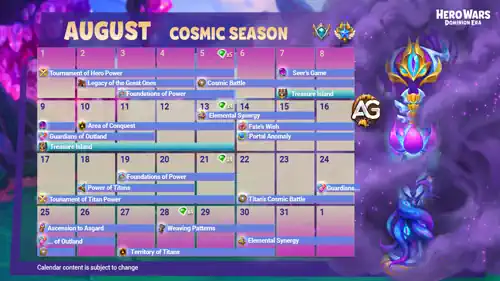
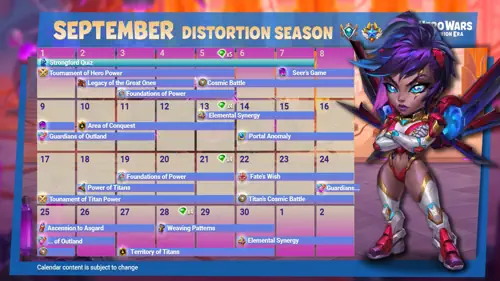
upate

diff --git a/hero-wars-dominion-era/menu/calendar-hwde-en.html b/hero-wars-dominion-era/menu/calendar-hwde-en.html
@@ -31,7 +31,7 @@
 <meta property="og:title" content="Hero Wars: Dominion Era Calendar">
 <meta property="og:description" content="Stay updated with the full event calendar for Hero Wars: Dominion Era. Find event dates, rewards, and strategy guides to make the most of every mission!">
 <meta property="og:url" content="https://alexandregames.com/hero-wars-dominion-era/menu/calendar-hwde-en.html">
-<meta property="og:image" content="https://alexandregames.com/hero-wars-dominion-era/images/events/calendar/calendar-hwde-1200px.webp?v=2026-07">
+<meta property="og:image" content="https://alexandregames.com/hero-wars-dominion-era/images/events/calendar/calendar-hwde-1200px.webp?v=2026-08">
 <meta property="og:image:width" content="1200">
 <meta property="og:image:height" content="675">
 <meta property="og:type" content="article">

diff --git a/hero-wars-dominion-era/menu/calendar-hwde-ja.html b/hero-wars-dominion-era/menu/calendar-hwde-ja.html
@@ -29,7 +29,7 @@
 <meta property="og:title" content="ヒーローウォーズ ドミニオン エラ カレンダー">
 <meta property="og:description" content="Hero Wars: Dominion Eraの完全イベントカレンダーで最新情報をチェック。イベント日程、報酬、戦略ガイドを見つけよう！">
 <meta property="og:url" content="https://alexandregames.com/hero-wars-dominion-era/menu/calendar-hwde-ja.html">
-<meta property="og:image" content="https://alexandregames.com/hero-wars-dominion-era/images/events/calendar/calendar-hwde-1200px.webp?v=2026-07">
+<meta property="og:image" content="https://alexandregames.com/hero-wars-dominion-era/images/events/calendar/calendar-hwde-1200px.webp?v=2026-08">
 <meta property="og:type" content="article">
 <meta property="og:site_name" content="Alexandre Games">
 

diff --git a/hero-wars-dominion-era/menu/calendar-hwde-pt.html b/hero-wars-dominion-era/menu/calendar-hwde-pt.html
@@ -31,7 +31,7 @@
 <meta property="og:title" content="Calendário Hero Wars: Dominion Era">
 <meta property="og:description" content="Fique atualizado com o calendário completo de eventos do Hero Wars: Dominion Era. Encontre datas de eventos, recompensas e guias de estratégia!">
 <meta property="og:url" content="https://alexandregames.com/hero-wars-dominion-era/menu/calendar-hwde-pt.html">
-<meta property="og:image" content="https://alexandregames.com/hero-wars-dominion-era/images/events/calendar/calendar-hwde-1200px.webp?v=2026-07">
+<meta property="og:image" content="https://alexandregames.com/hero-wars-dominion-era/images/events/calendar/calendar-hwde-1200px.webp?v=2026-08">
 <meta property="og:image:width" content="1200">
 <meta property="og:image:height" content="675">
 <meta property="og:type" content="article">

diff --git a/hero-wars-dominion-era/menu/calendar-hwde-de.html b/hero-wars-dominion-era/menu/calendar-hwde-de.html
@@ -29,7 +29,7 @@
 <meta property="og:title" content="Hero Wars: Dominion Era Kalender">
 <meta property="og:description" content="Bleiben Sie mit dem vollständigen Eventkalender für Hero Wars: Dominion Era auf dem Laufenden.">
 <meta property="og:url" content="https://alexandregames.com/hero-wars-dominion-era/menu/calendar-hwde-de.html">
-<meta property="og:image" content="https://alexandregames.com/hero-wars-dominion-era/images/events/calendar/calendar-hwde-1200px.webp?v=2026-07">
+<meta property="og:image" content="https://alexandregames.com/hero-wars-dominion-era/images/events/calendar/calendar-hwde-1200px.webp?v=2026-08">
 <meta property="og:type" content="article">
 <meta property="og:site_name" content="Alexandre Games">
 

diff --git a/hero-wars-dominion-era/menu/calendar-hwde-es.html b/hero-wars-dominion-era/menu/calendar-hwde-es.html
@@ -29,7 +29,7 @@
 <meta property="og:title" content="Calendario Hero Wars: Dominion Era">
 <meta property="og:description" content="Mantente actualizado con el calendario completo de eventos de Hero Wars: Dominion Era.">
 <meta property="og:url" content="https://alexandregames.com/hero-wars-dominion-era/menu/calendar-hwde-es.html">
-<meta property="og:image" content="https://alexandregames.com/hero-wars-dominion-era/images/events/calendar/calendar-hwde-1200px.webp?v=2026-07">
+<meta property="og:image" content="https://alexandregames.com/hero-wars-dominion-era/images/events/calendar/calendar-hwde-1200px.webp?v=2026-08">
 <meta property="og:type" content="article">
 <meta property="og:site_name" content="Alexandre Games">
 

diff --git a/hero-wars-dominion-era/menu/calendar-hwde-fr.html b/hero-wars-dominion-era/menu/calendar-hwde-fr.html
@@ -29,7 +29,7 @@
 <meta property="og:title" content="Calendrier Hero Wars: Dominion Era">
 <meta property="og:description" content="Restez à jour avec le calendrier complet des événements de Hero Wars: Dominion Era.">
 <meta property="og:url" content="https://alexandregames.com/hero-wars-dominion-era/menu/calendar-hwde-fr.html">
-<meta property="og:image" content="https://alexandregames.com/hero-wars-dominion-era/images/events/calendar/calendar-hwde-1200px.webp?v=2026-07">
+<meta property="og:image" content="https://alexandregames.com/hero-wars-dominion-era/images/events/calendar/calendar-hwde-1200px.webp?v=2026-08">
 <meta property="og:type" content="article">
 <meta property="og:site_name" content="Alexandre Games">
 
